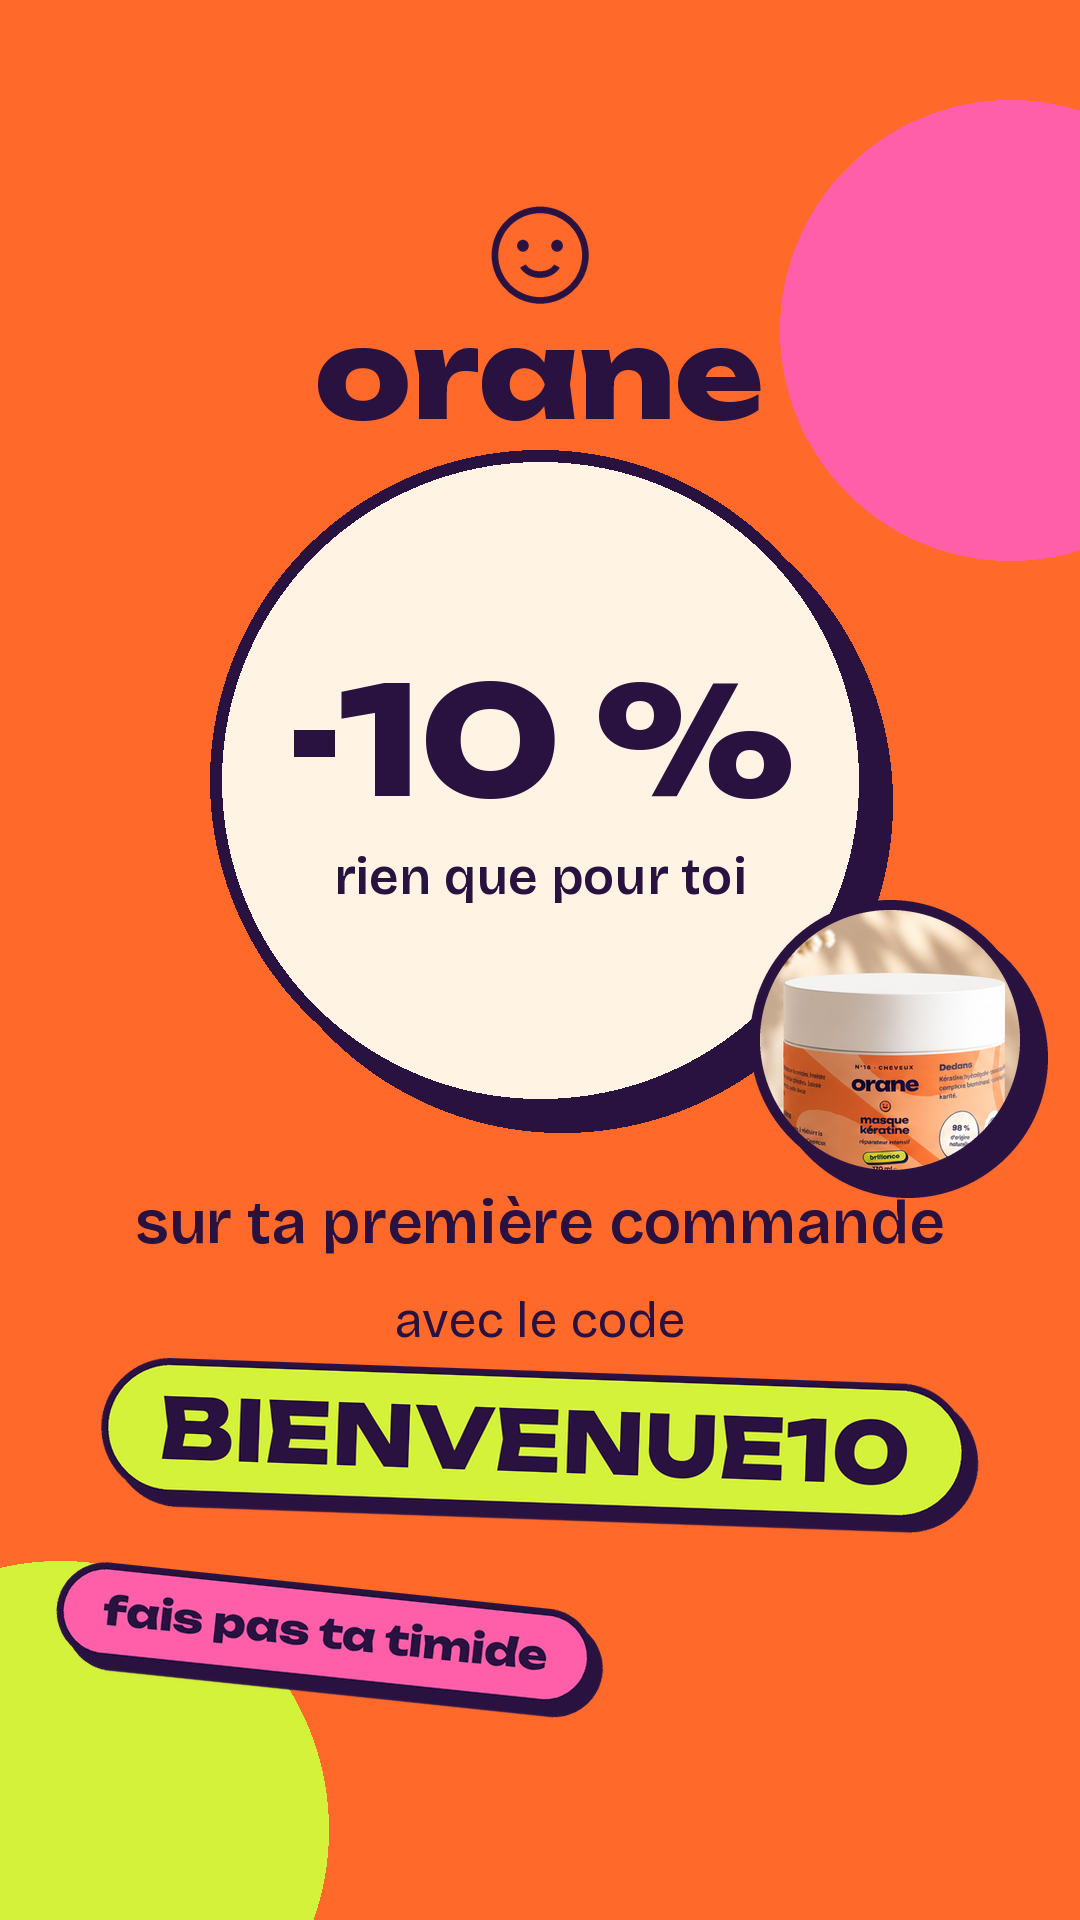
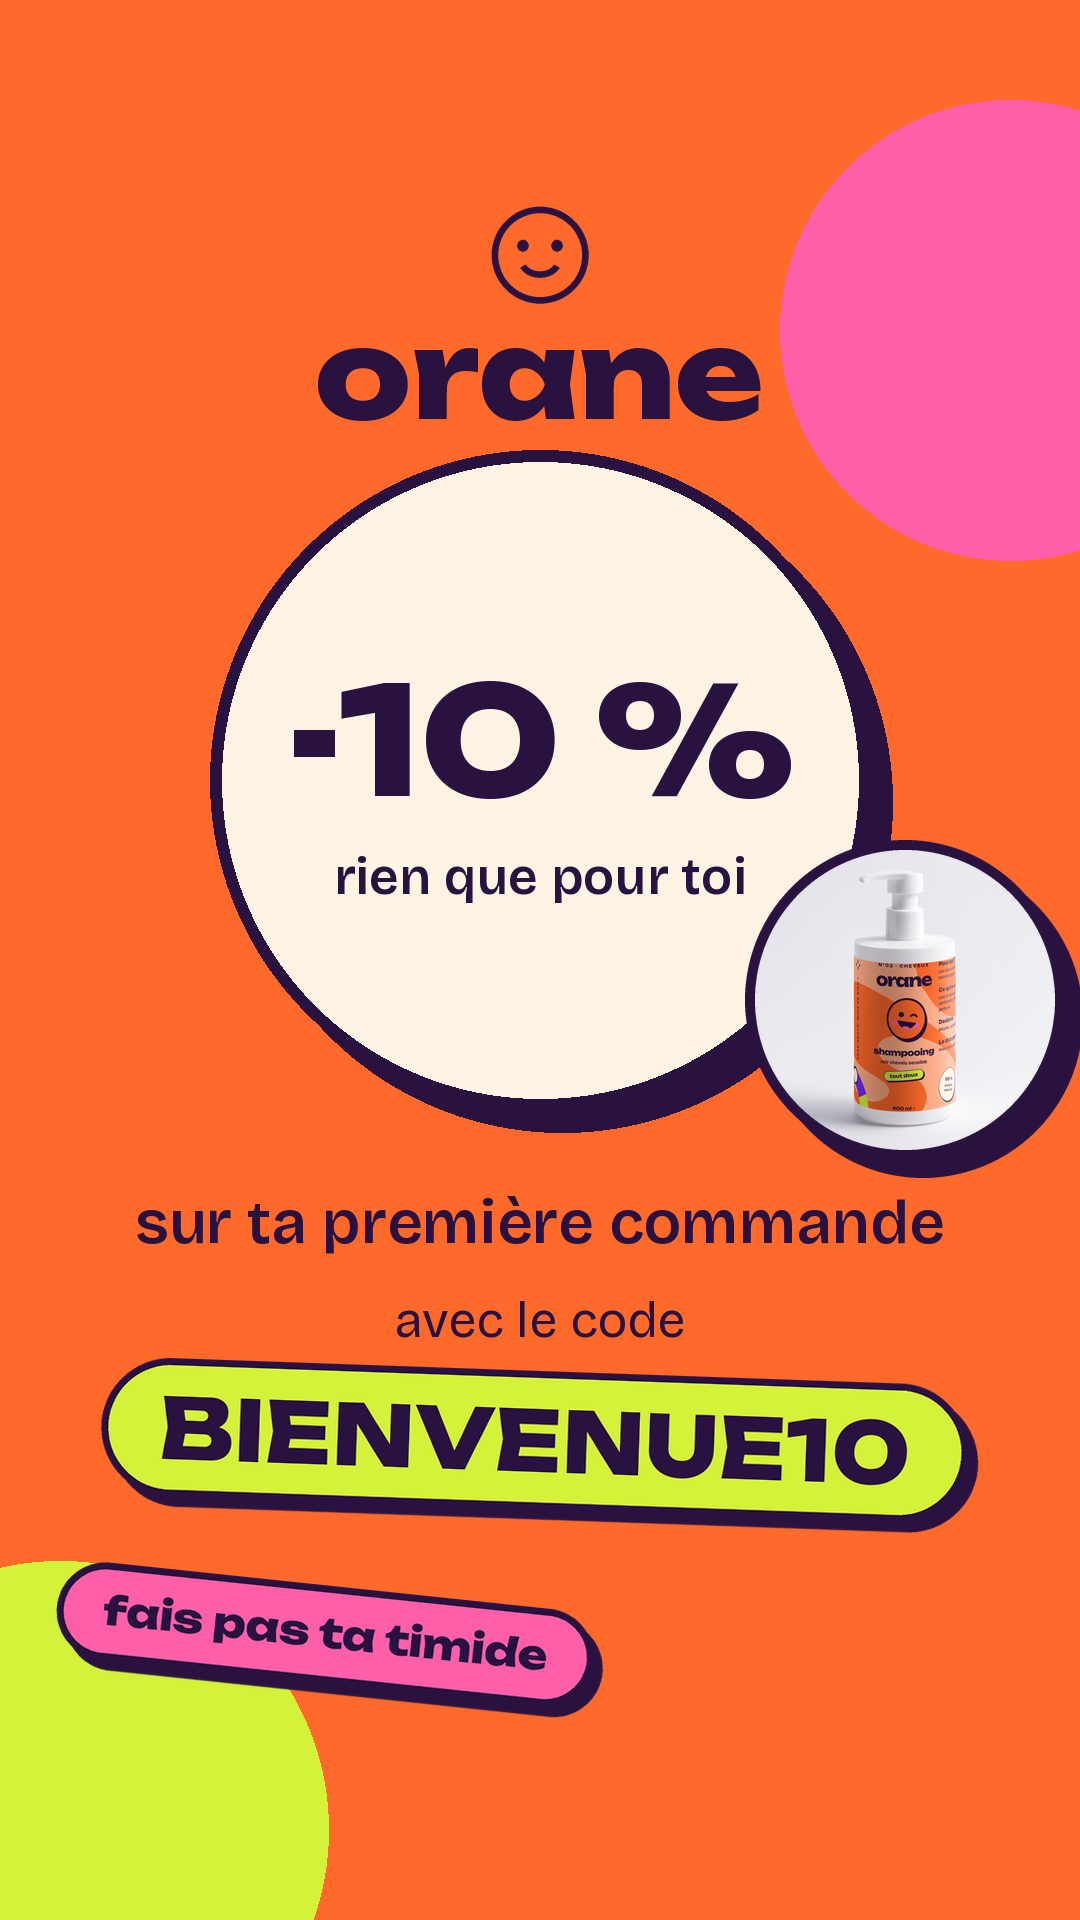
Story BIENVENUE10 : remplace le pot par le shampooing N°02
Claude-Session: https://claude.ai/code/session_01EDDpxgEHQyixTaMXVd8VyK

Changed region(s): [[0.6722, 0.4375, 1.0, 0.625]]

diff --git a/promo/story_bienvenue.py b/promo/story_bienvenue.py
@@ -31,7 +31,7 @@ centered(d, "-10 %", UNB(150), cy - 40, AUBERGINE)
 centered(d, "rien que pour toi", BRI_SB(52), cy + 100, AUBERGINE)
 
 # le pot, dans un rond qui déborde de la pastille
-circle_photo(fr, PANELS[1], (890, 1040), 130, DONE, 0, DONE, zoom=(1.35, 1.35))
+circle_photo(fr, Image.open(f"{R.HERE}/panels/shampooing_n02.png").convert("RGB"), (905, 1000), 150, DONE, 0, DONE, zoom=(1.0, 1.0))
 
 d = ImageDraw.Draw(fr)
 centered(d, "sur ta première commande", BRI_SB(62), 1225, AUBERGINE)
